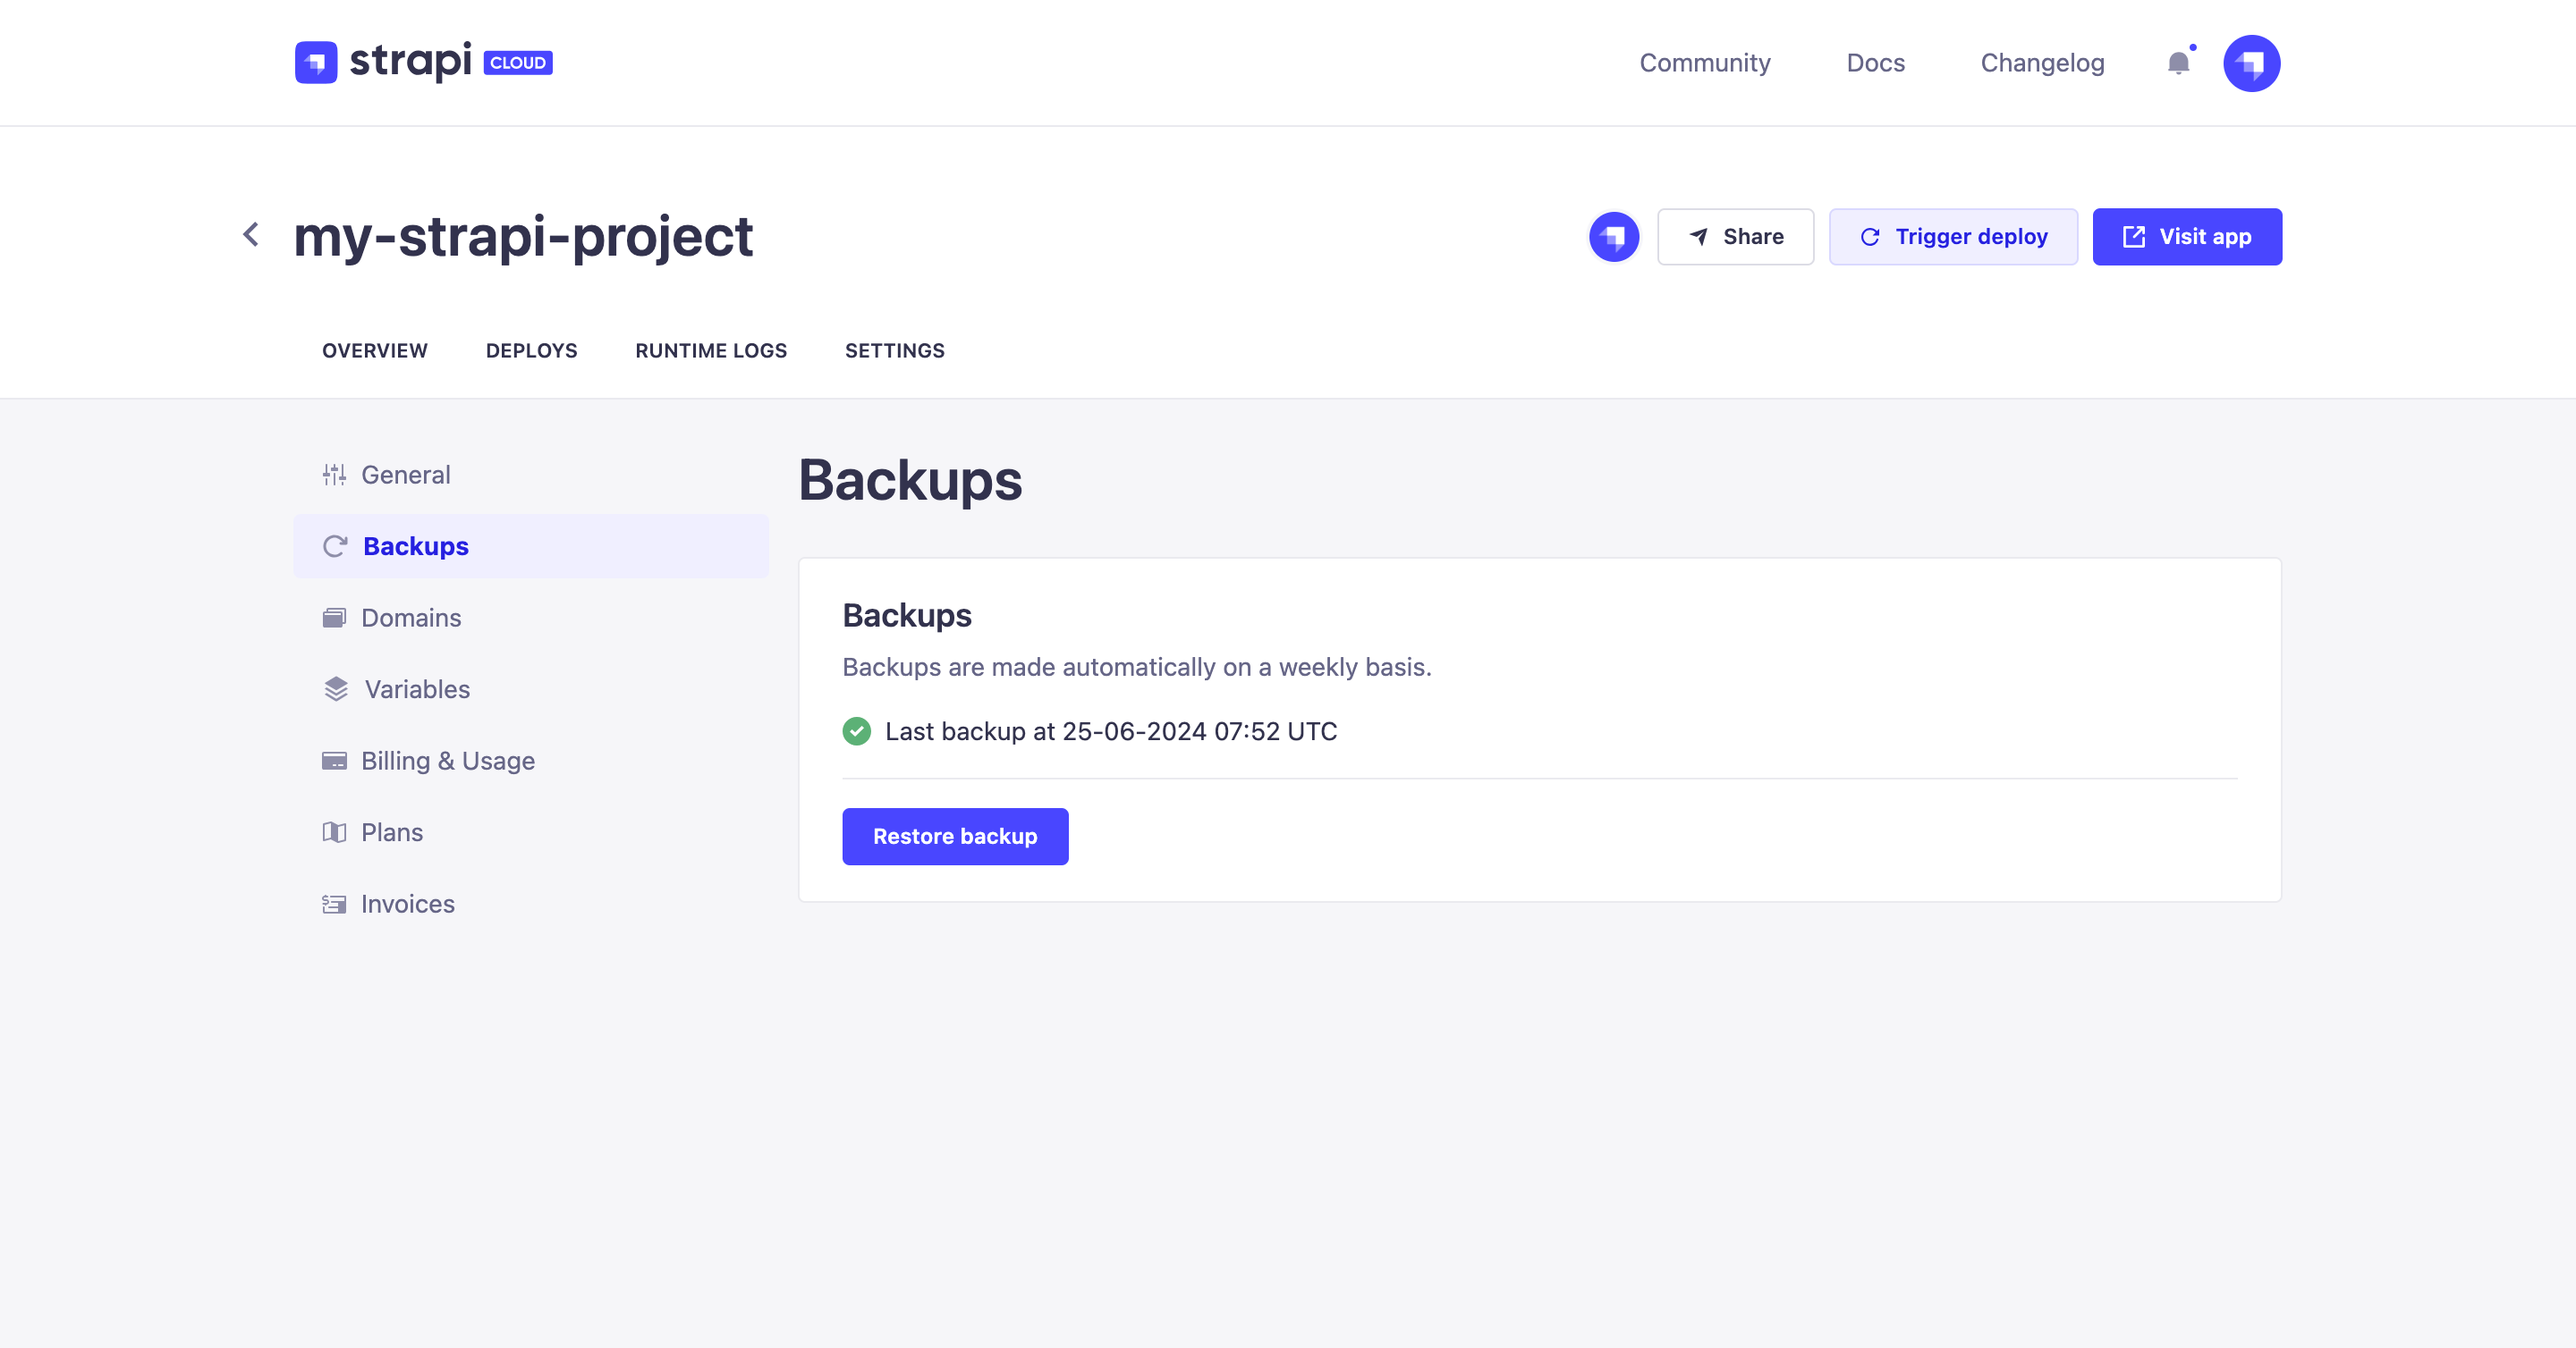
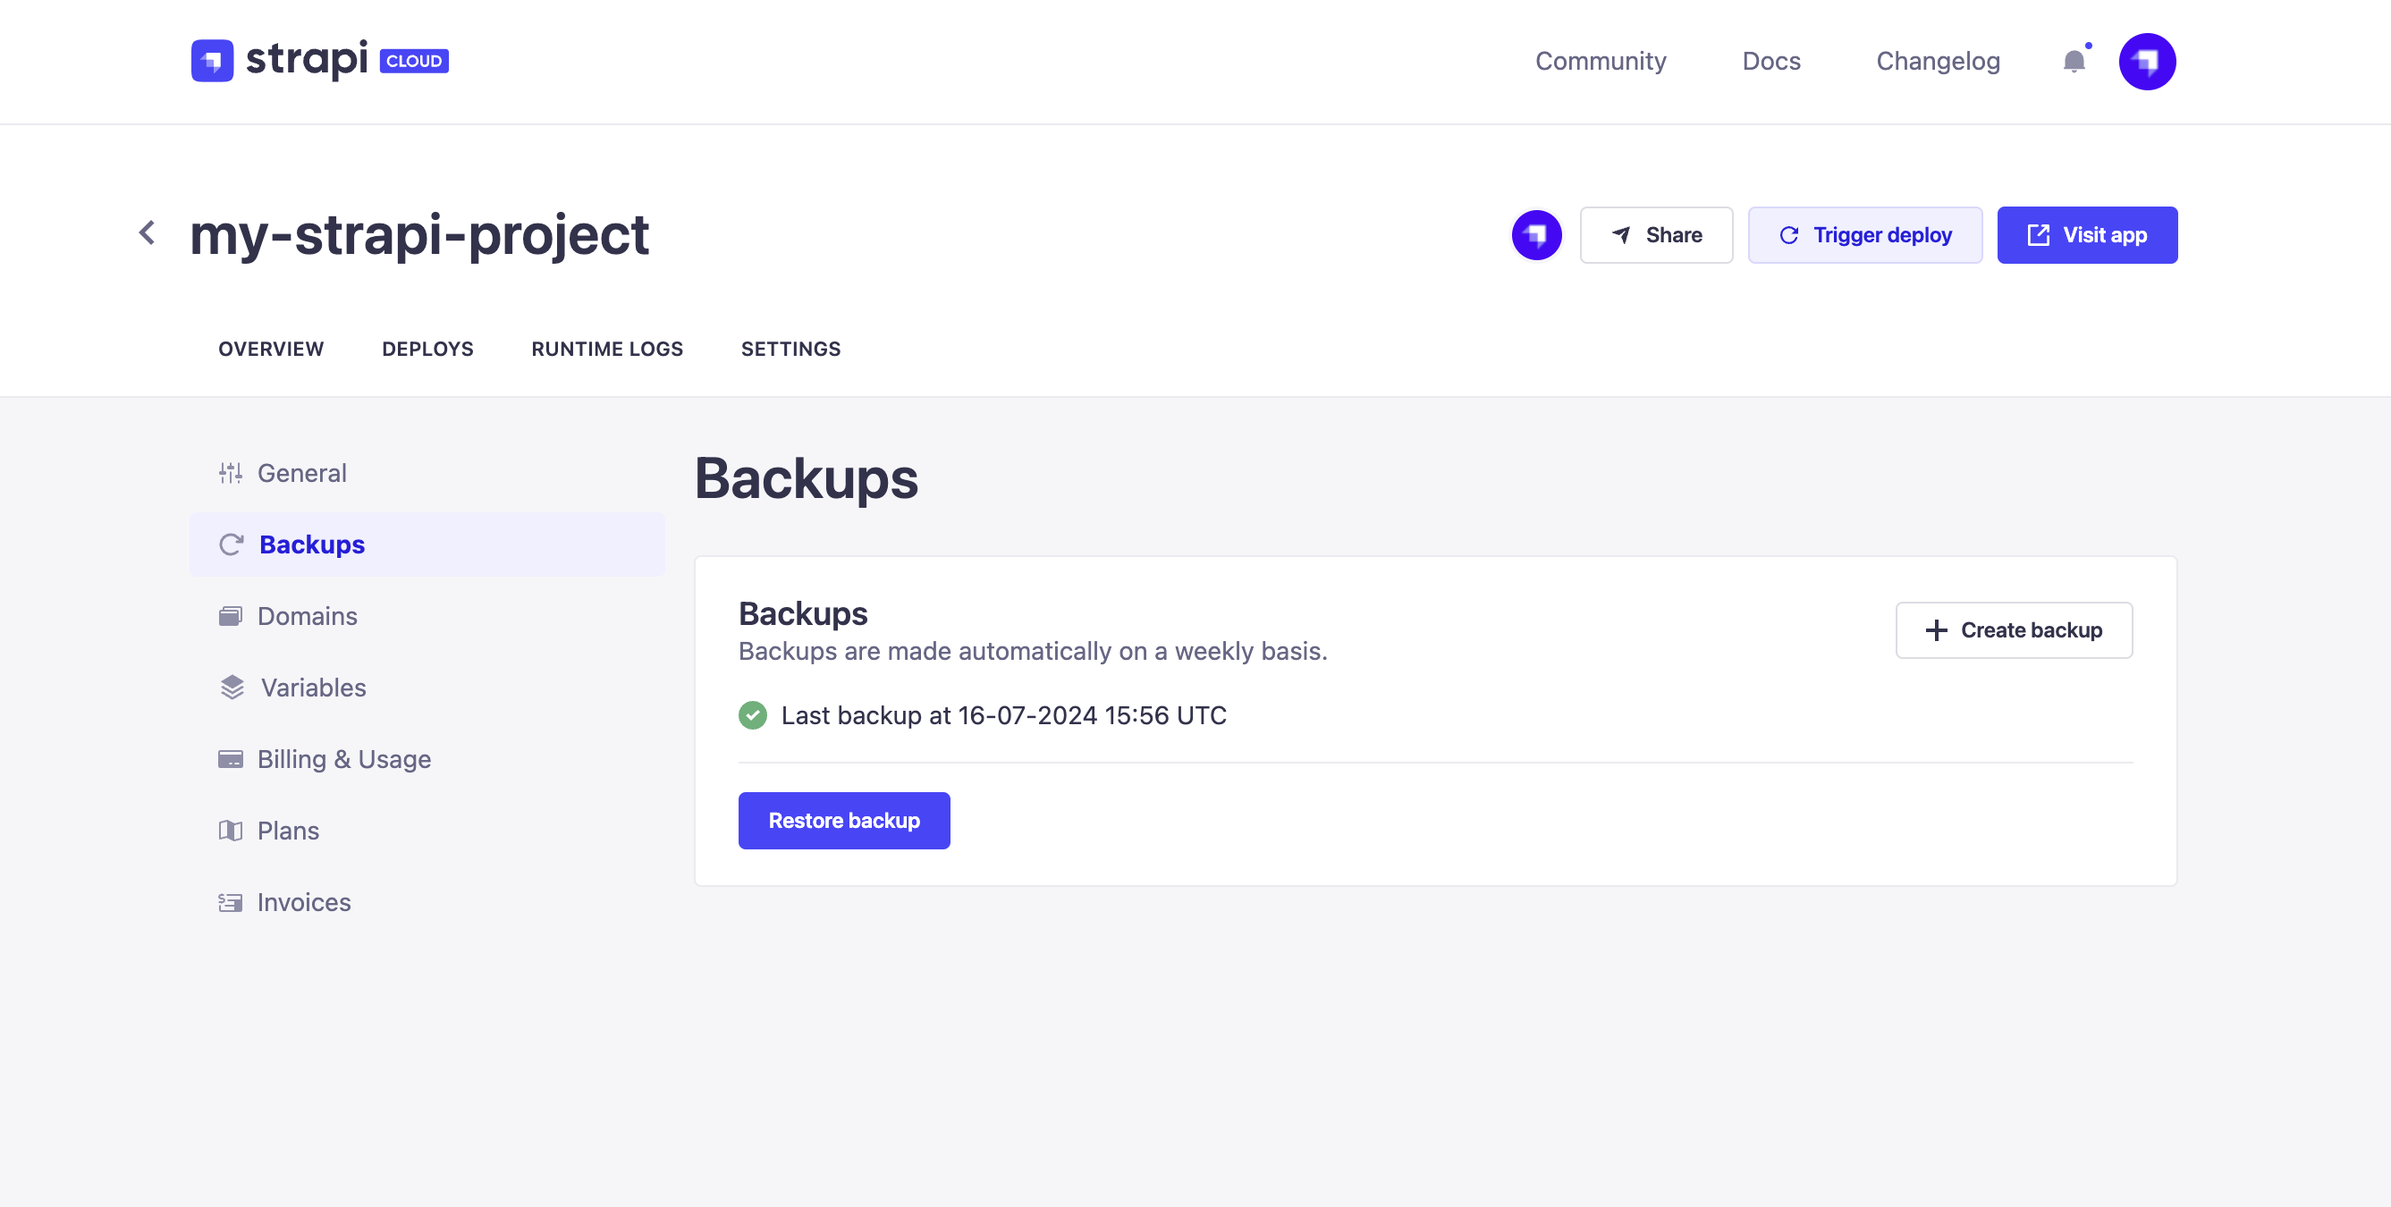
Manual backups for Strapi Cloud (#2146)
* chore: update cloud settings backups

* Fix some formatting

---------

diff --git a/docusaurus/docs/cloud/projects/settings.md b/docusaurus/docs/cloud/projects/settings.md
@@ -100,12 +100,16 @@ You can delete any Strapi Cloud project, but it will be permanent and irreversib
 
 ## Backups <CloudProBadge /> <CloudTeamBadge /> {#backups}
 
-The ![Backups icon](/img/assets/icons/ArrowClockwise.svg) *Backups* tab informs you of the status and date of the latest backup of your Strapi Cloud projects. The databases associated with all existing Strapi Cloud projects are indeed automatically backed up weekly and those backups are retained for a one-month period.
+The ![Backups icon](/img/assets/icons/ArrowClockwise.svg) *Backups* tab informs you of the status and date of the latest backup of your Strapi Cloud projects. The databases associated with all existing Strapi Cloud projects are indeed automatically backed up weekly and those backups are retained for a one-month period. Additionally, you can create a single manual backup.
 
-:::note
-The backup feature is not available for Strapi Cloud projects using the free trial or the Developer plan. You will need to upgrade to either the Pro or Team plan to have your project automatically backed up.
+:::note Notes
 
-Note also that only project owners can restore a backup. Maintainers have access to the ![Backups icon](/img/assets/icons/ArrowClockwise.svg) *Backups* tab but the **Restore backup** button won't be displayed for them. Refer to [Collaboration](/cloud/projects/collaboration) for more information.
+- The backup feature is not available for Strapi Cloud projects using the free trial or the Developer plan. You will need to upgrade to either the Pro or Team plan to have your project automatically backed up and to have access to manual backups.
+
+- Only project owners can restore a backup. Maintainers have access to the ![Backups icon](/img/assets/icons/ArrowClockwise.svg) *Backups* tab but the **Restore backup** button won't be displayed for them. Refer to [Collaboration](/cloud/projects/collaboration) for more information.
+
+- The manual backup option should become available shortly after project's first succesful deployment.
+
 :::
 
 :::tip
@@ -120,12 +124,22 @@ For projects created before the release of the Backup feature in October 2023, t
   }}
 />
 
+### Creating a manual backup
+
+To create a manual backup, in the ![Backups icon](/img/assets/icons/ArrowClockwise.svg) *Backups* section, click on the **Create backup** button.
+
+The manual backup should start immediately, and restoration or creation of other backups will be disabled until backup is complete.
+
+:::caution
+When creating a new manual backup, any existing manual backup will be deleted. You can only have one manual backup at a time.
+:::
+
 ### Restoring a backup
 
 If you need to restore a backup of your project:
 
 1. In the ![Backups icon](/img/assets/icons/ArrowClockwise.svg) *Backups* section, click on the **Restore backup** button.
-2. In the dialog, choose one of the available backups of your project in the *Choose backup* drop-down.
+2. In the dialog, choose one of the available backups (automatic or manual) of your project in the *Choose backup* drop-down.
 3. Click on the **Restore** button of the dialog. Once the restoration finished, your project will be back to the state it was at the time of the chosen backup.
 
 ## Domains
